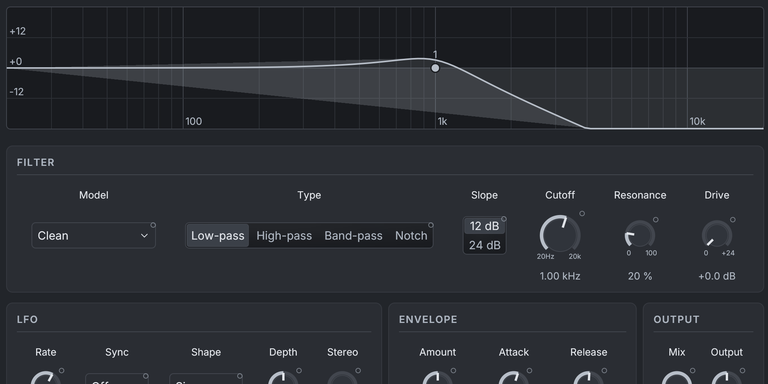
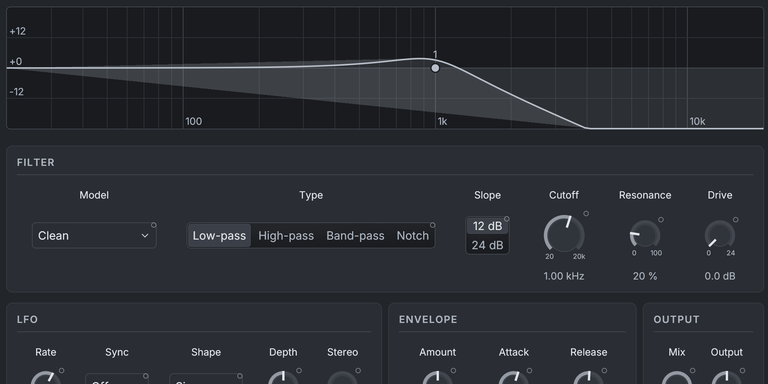
Refine the panel dial, faders and R1 Mini after review
The pointer crosses a softened arc to its outer edge; stepped dials mark
their detents; ranges around zero fill from the center. Velocity joins
each envelope as a fifth fader, lines of a card stand further apart, and
values drop the plus sign where a range has no negative side.

Claude-Session: https://claude.ai/code/session_01NMJbGpgEhY1BFioJy8Pb6P

diff --git a/crates/daw-devices-ui/src/lib.rs b/crates/daw-devices-ui/src/lib.rs
@@ -53,6 +53,10 @@ pub const KNOB_HERO: f32 = 64.0;
 /// Space between neighbouring controls of one card, so captions never touch.
 const CELL_GAP: f32 = daw_ui::tokens::SPACE_SM;
 
+/// Extra space between the lines of a cell-grid card, so a value reads with
+/// the knob above it and not with the caption below.
+const LINE_GAP: f32 = daw_ui::tokens::SPACE_SM;
+
 /// The panel's width, for the window that hosts it.
 pub fn panel_width(descriptor: &DeviceDescriptor) -> f32 {
     panels::layout(descriptor).width
@@ -199,7 +203,7 @@ fn cell_row(
     // What a line adds to its control: the caption above, the value below
     // and the spacing around them. A fader spans the lines it stands beside.
     let text = ui.fonts_mut(|fonts| fonts.row_height(&daw_ui::control_caption_font()));
-    let between = 2.0 * text + 3.0 * ui.spacing().item_spacing.y;
+    let between = 2.0 * text + 3.0 * ui.spacing().item_spacing.y + LINE_GAP;
     let tall = heights.iter().sum::<f32>() + between * lines.saturating_sub(1) as f32;
     let spans: Vec<u8> = sections.iter().map(|section| section.span).collect();
     daw_ui::grid_row(ui, &spans, |ui, index| {
@@ -208,6 +212,9 @@ fn cell_row(
         ui.add_space(daw_ui::tokens::SPACE_XS);
         let width = ui.available_width() / f32::from(section.span);
         for (line, slots) in section.lines.iter().enumerate() {
+            if line > 0 {
+                ui.add_space(LINE_GAP);
+            }
             // In a card of one line beside taller ones, faders span every
             // line and a knob stands on the last, level with its neighbours.
             let alone = section.lines.len() == 1;
@@ -366,30 +373,39 @@ fn caption(spec: &ParamSpec, layout: &panels::Layout) -> &'static str {
         .map_or(spec.name, |(_, caption)| caption)
 }
 
+/// A parameter's value as the panel prints it: the device's own text, less
+/// the plus sign where the range has no negative side to tell it from.
+fn value_text(spec: &ParamSpec, normalized: f32) -> String {
+    let text = spec.format(normalized);
+    match text.strip_prefix('+') {
+        Some(unsigned) if spec.plain_min() >= 0.0 => unsigned.to_owned(),
+        _ => text,
+    }
+}
+
 /// The value at one end of a knob's range, short enough to print under the
 /// arc: "20", "20k", "+24". The unit stays only where the two ends differ
-/// in it ("2ms", "10s"); the full value is under the knob.
+/// in more than its prefix ("1ms", "2s"); the full value is under the knob.
 fn end_label(spec: &ParamSpec, normalized: f32) -> String {
-    let unit = |normalized: f32| {
-        spec.format(normalized)
-            .split_once(' ')
-            .map(|(_, unit)| unit.to_owned())
-            .unwrap_or_default()
+    let split = |normalized: f32| {
+        let text = value_text(spec, normalized);
+        let (number, unit) = text.split_once(' ').unwrap_or((&text, ""));
+        let number = if number.contains('.') {
+            number.trim_end_matches('0').trim_end_matches('.')
+        } else {
+            number
+        };
+        let number = if number == "+0" { "0" } else { number };
+        (number.to_owned(), unit.to_owned())
     };
-    let text = spec.format(normalized);
-    let (number, own) = text.split_once(' ').unwrap_or((&text, ""));
-    let number = if number.contains('.') {
-        number.trim_end_matches('0').trim_end_matches('.')
-    } else {
+    let ((number, unit), (_, low), (_, high)) = (split(normalized), split(0.0), split(1.0));
+    if low == high {
         number
-    };
-    let number = if number == "+0" { "0" } else { number };
-    if unit(0.0) == unit(1.0) {
-        number.to_owned()
-    } else if own.starts_with('k') {
-        format!("{number}k")
+    } else if high.strip_prefix('k') == Some(low.as_str()) {
+        // "20" to "20k": the kilo prefix alone tells the ends apart.
+        format!("{number}{}", if unit == high { "k" } else { "" })
     } else {
-        format!("{number}{own}")
+        format!("{number}{unit}")
     }
 }
 
@@ -447,7 +463,7 @@ fn cell_width(ui: &Ui, spec: &ParamSpec, layout: &panels::Layout) -> f32 {
         ParamRange::Linear { .. } | ParamRange::Log { .. } | ParamRange::Integer { .. } => {
             [0.0, 1.0]
                 .into_iter()
-                .map(|end| text(&spec.format(end), daw_ui::text::TextRole::Note.font()))
+                .map(|end| text(&value_text(spec, end), daw_ui::text::TextRole::Note.font()))
                 .fold(knob_diameter(spec, layout), f32::max)
         }
         ParamRange::Choice(labels) if toggles(spec) => {
@@ -617,13 +633,17 @@ fn control(
                             .text(caption(spec, layout))
                             .endpoint_labels(end_label(spec, 0.0), end_label(spec, 1.0))
                             .automation(state);
+                        if spec.plain_min() == -spec.plain_max() {
+                            // A range around zero fills from its center.
+                            knob = knob.bipolar();
+                        }
                         if let ParamRange::Integer { min, max } = spec.range {
                             // One detent per whole value.
                             knob = knob.step_by(1.0 / f64::from((max - min).max(1)));
                         }
                         ui.add(knob)
                     };
-                    let text = spec.format(normalized as f32);
+                    let text = value_text(spec, normalized as f32);
                     // Values share one baseline across the line.
                     ui.add_space(offset);
                     daw_ui::text::note(ui, &text);

diff --git a/crates/daw-ui/src/knob.rs b/crates/daw-ui/src/knob.rs
@@ -764,7 +764,13 @@ impl<'a> Knob<'a> {
                     } else {
                         2.5
                     },
-                    active,
+                    if self.pointer {
+                        // Softer than the marker crossing it, which stays
+                        // the one sharp reading of the value.
+                        active.gamma_multiply(0.7)
+                    } else {
+                        active
+                    },
                 ),
             ));
             if let Some(depth) = &self.modulation {
@@ -799,11 +805,28 @@ impl<'a> Knob<'a> {
                 ui.painter()
                     .circle_stroke(unity, 3.0, Stroke::new(1.5_f32, colors.text));
             }
+            if let (true, Some(step)) = (self.pointer, self.step) {
+                // A dot per detent while they are few enough to count.
+                let detents = ((self.range.end() - self.range.start()).abs() / step).round();
+                if (1.0..=12.0).contains(&detents) {
+                    for detent in 0..=detents as usize {
+                        let at = START_ANGLE + ARC_ANGLE * detent as f32 / detents as f32;
+                        ui.painter().circle_filled(
+                            center + Vec2::angled(at) * (radius + arc_width * 0.5 + 3.0),
+                            1.0,
+                            colors.muted,
+                        );
+                    }
+                }
+            }
             if self.pointer {
                 // An engraved marker on the outer half of the body that
-                // joins the arc; the centre stays quiet.
+                // crosses the arc to its outer edge; the centre stays quiet.
                 ui.painter().line_segment(
-                    [center + index_direction * radius * 0.45, geometry.index],
+                    [
+                        center + index_direction * radius * 0.45,
+                        center + index_direction * (radius + arc_width * 0.5),
+                    ],
                     Stroke::new(
                         if self.diameter >= 48.0 {
                             3.0_f32

diff --git a/crates/daw-devices-ui/src/panels.rs b/crates/daw-devices-ui/src/panels.rs
@@ -152,7 +152,8 @@ pub fn layout(descriptor: &DeviceDescriptor) -> Layout {
         // controls; the filter and the two envelopes; modulation and the
         // voices. Every row breaks after its eighth cell. Both oscillators
         // share their columns, so the second one's extra controls stand
-        // out; an envelope is four faders, read as its shape.
+        // out; an envelope is four faders, read as its shape, and a fifth
+        // for how much velocity drives it.
         use Slot::{Blank, Control as C, Faders};
         layout.width = daw_ui::tokens::POPUP_WIDTH_LG;
         layout.cells = true;
@@ -218,7 +219,7 @@ pub fn layout(descriptor: &DeviceDescriptor) -> Layout {
                 4,
                 &[&[
                     Faders(&[FENV_ATTACK, FENV_DECAY, FENV_SUSTAIN, FENV_RELEASE], 3),
-                    C(VELOCITY_CUTOFF, 1),
+                    Faders(&[VELOCITY_CUTOFF], 1),
                 ]],
             ),
             cells(
@@ -227,7 +228,7 @@ pub fn layout(descriptor: &DeviceDescriptor) -> Layout {
                 4,
                 &[&[
                     Faders(&[AENV_ATTACK, AENV_DECAY, AENV_SUSTAIN, AENV_RELEASE], 3),
-                    C(VELOCITY_AMP, 1),
+                    Faders(&[VELOCITY_AMP], 1),
                 ]],
             ),
             cells(

diff --git a/crates/daw-ui/src/device_controls.rs b/crates/daw-ui/src/device_controls.rs
@@ -1596,7 +1596,8 @@ pub fn fader(
             );
         };
         rail(top, bottom, colors.line);
-        rail(y, bottom, active);
+        // As soft as the value arc of a `Knob::pointer`.
+        rail(y, bottom, active.gamma_multiply(0.7));
         let cap = Rect::from_center_size(egui::pos2(x, y), cap);
         painter.rect(
             cap,

diff --git a/docs/UI.md b/docs/UI.md
@@ -1395,7 +1395,7 @@ arrow keys), and canvas handles use the 21-point `HIT_TARGET`.
 
 | Component | Use |
 | --- | --- |
-| `Knob` additions | `.bipolar()`, `.taper(Taper::Log)`, `.default_value(v)` (double-click and context-menu **Reset**), `.modulation(range)`, `.format(fn)` and `.parse(fn)`. Diameters down to 34. `.step_by(step)` gives a dial detents. `.pointer()` is the panel dial: a thick arc as its scale, a body, a marker joining the arc and `endpoint_labels` printed small under the arc's ends. `.mini()` is a bare arc 21 points across with its active part highlighted, for pan, send or volume inside a compact row. |
+| `Knob` additions | `.bipolar()`, `.taper(Taper::Log)`, `.default_value(v)` (double-click and context-menu **Reset**), `.modulation(range)`, `.format(fn)` and `.parse(fn)`. Diameters down to 34. `.step_by(step)` gives a dial detents; a pointer dial marks up to twelve of them with dots. `.pointer()` is the panel dial: a thick arc as its scale, a body, a marker crossing a softened arc to its outer edge and `endpoint_labels` printed small under the arc's ends. `.mini()` is a bare arc 21 points across with its active part highlighted, for pan, send or volume inside a compact row. |
 | `fader` | A vertical fader over a normalized value: a rail highlighted up to its cap. For values read as a shape across neighbours (envelope stages); a knob everywhere else. Relative drag, Shift for fine, arrow keys when focused. The caller supplies caption, value and hover. |
 | `labeled_knob` | Caption, dial and value in a fixed cell (`KnobSize::Dense` 34, `Standard` 48, `Hero` 64). Clicking the value types a number. The context menu offers **Reset**, **Type value…**, **Automate** (or **Show automation lane**) and, with `.mod_sources`, **Modulate with …**. `show` returns `automate` and `modulate_with`; the host creates the lane or routing. |
 | `segmented`, `stepped_selector`, `toggle_led` | Two to four options as toggle buttons (falls back to a drop-down), longer lists, and section enables. |

diff --git a/docs/R1_DEVICES.md b/docs/R1_DEVICES.md
@@ -786,14 +786,17 @@ row breaks after its eighth cell:
   Glide, Bend and Drift.
 - **Filter, Filter envelope, Amp envelope.** Filter Model beside the hero
   Cutoff, then Resonance, Drive, Envelope amount and Key track. Each
-  envelope is four faders, A D S R, and its Velocity amount.
+  envelope is four faders, A D S R, and a fifth for its Velocity amount.
 - **LFO, Voices.** The source (Shape, Rate, Sync) and its destinations
   (Pitch, Cutoff, Width, Mod wheel); Mode (toggle buttons) and Voices.
 
 A control that does nothing in the current mode (pulse Width on another
 wave, LFO Rate when synced, Voices outside Poly) stays in place, disabled, so
 the cards never reflow. Knobs are standard (48 points) except the hero
-Cutoff; Octave, Semitones, Bend and Voices click through whole values. Unlike the effect, the
+Cutoff; Octave, Semitones, Bend and Voices click through whole values, with
+a dot per detent where they are few. A range around zero (Octave, Detune,
+Envelope) fills its arc from the center. Values print without a plus sign
+where the range has no negative side. Unlike the effect, the
 synth draws no filter response: the controls start right under the header.
 The sketch below is the
 original target:
